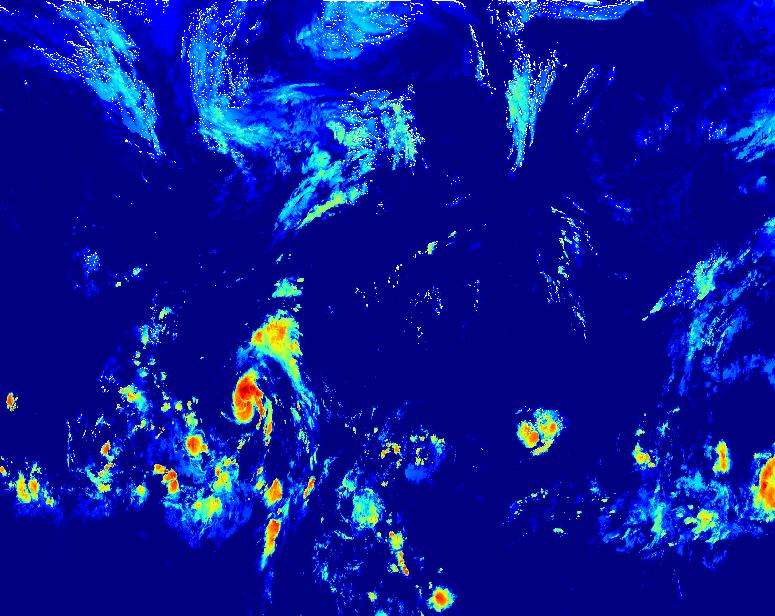
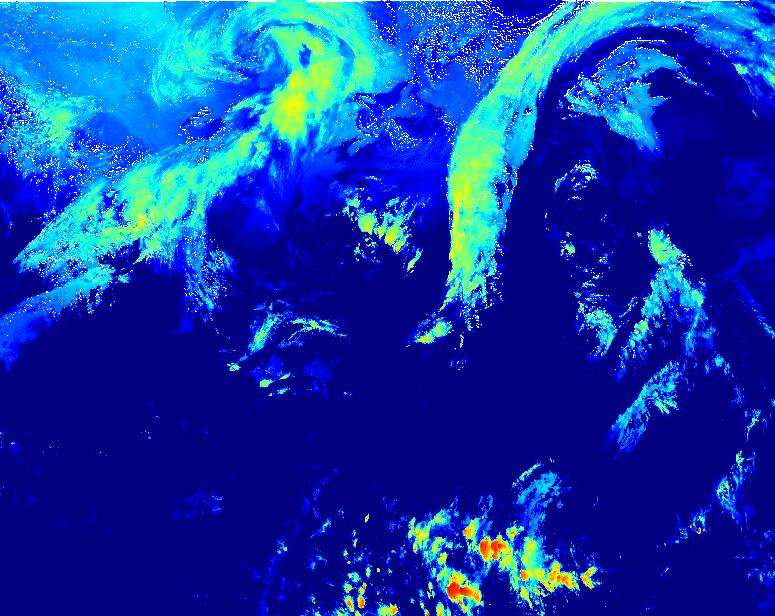
Used multithreading for getting dav values in scratch task

diff --git a/scratch_task2.py b/scratch_task2.py
@@ -5,6 +5,7 @@ import numpy as np
 import sobel_task1
 from PIL import Image
 import matplotlib.pyplot as plt
+import threading
 
 """Calculate distance between lat and lon coordinates"""
 def distance(lon1, lat1, lon2, lat2):
@@ -42,9 +43,7 @@ def convert_to_gradient_vectors(gradient_magnitude, gradient_direction, w, h):
     return gradient_x, gradient_y
 
 def calculate_DAV_Numpy(gradient_x, gradient_y, radial_x, radial_y):
-    
     # Calculate the dot product
-    #dot_product = np.dot(gradient_vectors, radial_lines)
     dot_product = gradient_x*radial_x + gradient_y*radial_y
     grad_mag = np.sqrt(gradient_x*gradient_x + gradient_y*gradient_y)
     rad_mag = np.sqrt(radial_x*radial_x + radial_y*radial_y)
@@ -54,7 +53,7 @@ def calculate_DAV_Numpy(gradient_x, gradient_y, radial_x, radial_y):
     cos_ratios = dot_product[ind] / (grad_mag[ind] * rad_mag[ind])
     deviation_angle = np.arccos(cos_ratios)
     deviations = np.degrees(deviation_angle)
-    variance = np.var(deviations)
+    variance = np.nanvar(deviations)
     
     return variance,deviations
 
@@ -98,7 +97,7 @@ def numpy_coords(image):
     lon_coords = np.full((h*w), 0, dtype='d')
     for pixel_ind in range(h*w):
         x = pixel_ind % w
-        y = pixel_ind / w
+        y = pixel_ind // w
         lat_coords[pixel_ind] = lat_max + (y/h)*(lat_min - lat_max)
         lon_coords[pixel_ind] = lon_min + (x/w)*(lon_max - lon_min)
     return lon_coords, lat_coords
@@ -110,8 +109,7 @@ def convert_to_coord(pixel_ind, w, h):
     pix_lon = lon_min + (x/w)*(lon_max - lon_min)
     return (pix_lon, pix_lat)
 
-def calculate_radial_vectors(image, lat, lon, radial_dist, lon_lst, lat_lst):
-    w, h = image.size
+def calculate_radial_vectors(lat, lon, radial_dist, lon_lst, lat_lst):
     radial_vectors_x = lon - lon_lst 
     radial_vectors_y = lat - lat_lst
     radial_ind = np.where((0 < distance(lon, lat, lon_lst, lat_lst)) & 
@@ -121,11 +119,23 @@ def calculate_radial_vectors(image, lat, lon, radial_dist, lon_lst, lat_lst):
 
 # # Histogram of the dav angles
 def plot_angle_histogram(angles):
-     plt.hist(angles, bins=120, range=(-360, 360), edgecolor='black')
+     plt.hist(angles, bins=120, range=(-90, 360), edgecolor='black')
      plt.xlabel('Angles (degrees)')
      plt.ylabel('Frequency')
      plt.title('Angle Histogram')
      plt.show()
+
+def get_variance(start, end):
+    for pixel_ind in range(start, end):
+        x = pixel_ind % width
+        y = pixel_ind // width
+        ref_lat = lat_max + (y/height)*(lat_min - lat_max)
+        ref_lon = lon_min + (x/width)*(lon_max - lon_min)
+        radial_x, radial_y, ind = calculate_radial_vectors(ref_lat, ref_lon, 
+                                                radial_dist, lon_pts, lat_pts)
+        variance,angle_list= calculate_DAV_Numpy(grad_x[ind], grad_y[ind], radial_x[ind], radial_y[ind])
+        dav_array[y, x] = variance
+
 # Get coordinates from netcdf4 file
 nc = netCDF4.Dataset('DataSources/merg_2022020200_4km-pixel.nc4')
 
@@ -137,8 +147,8 @@ lat = nc.variables['lat'][:]
 lon = nc.variables['lon'][:]
 
 # Define the North Atlantic region (in degrees)
-lon_min, lon_max = -90, -70
-lat_min, lat_max = 15, 22
+lon_min, lon_max = -120, 0
+lat_min, lat_max = -5, 60
 
 # Find the indices of the latitude and longitude values that correspond to the desired region
 lat_inds = np.where((lat >= lat_min) & (lat <= lat_max))[0]
@@ -172,20 +182,26 @@ radial_dist = 150
 ref_lat, ref_lon = 20, -80
 width, height = image.size 
 lon_pts, lat_pts = numpy_coords(image)
-radial_x, radial_y, ind = calculate_radial_vectors(image, ref_lat, ref_lon, 
+radial_x, radial_y, ind = calculate_radial_vectors(ref_lat, ref_lon, 
                                                    radial_dist, lon_pts, lat_pts)
 variance,angle_list= calculate_DAV_Numpy(grad_x[ind], grad_y[ind], radial_x[ind], radial_y[ind])
-print("Length of angles", len(angle_list))
 print("Variance", variance)
 plot_angle_histogram(angle_list)
 
 # Now Mapping deviation-angle variances
-dav_array = np.zeros((width, height), dtype='d')
-for y in range(height):
-    for x in range(width):
-        ref_lat = lat_max + (y/height)*(lat_min - lat_max)
-        ref_lon = lon_min + (x/width)*(lon_max - lon_min)
-        radial_x, radial_y, ind = calculate_radial_vectors(image, ref_lat, ref_lon, 
-                                                   radial_dist, lon_pts, lat_pts)
-        variance,angle_list= calculate_DAV_Numpy(grad_x[ind], grad_y[ind], radial_x[ind], radial_y[ind])
-        dav_array[x, y] = variance
+dav_array = np.zeros((height, width), dtype='d')
+splits = 100
+split_size = (width*height) // splits                                       
+threads = []                                                                
+for i in range(splits):                                                 
+    # determine the indices of the list this thread will handle             
+    start = i * split_size                                                  
+    # special case on the last chunk to account for uneven splits           
+    end = (width*height) if i+1 == splits else (i+1) * split_size                 
+    # create the thread                                                     
+    threads.append(                                                         
+        threading.Thread(target=get_variance, args=(start, end)))         
+    threads[-1].start()
+
+for t in range(len(threads)):
+    threads[t].join()

diff --git a/image_generator_for_dav.py b/image_generator_for_dav.py
@@ -4,7 +4,7 @@ import matplotlib.pyplot as plt
 from datetime import datetime
 
 # Open the NetCDF4 file
-nc = netCDF4.Dataset('fyp_23-trop_cyclones/DataSources/merg_2022092606_4km-pixel.nc4')
+nc = netCDF4.Dataset('DataSources/merg_2022020200_4km-pixel.nc4')
 
 # Get the variable you want to plot
 var = nc.variables['Tb']
